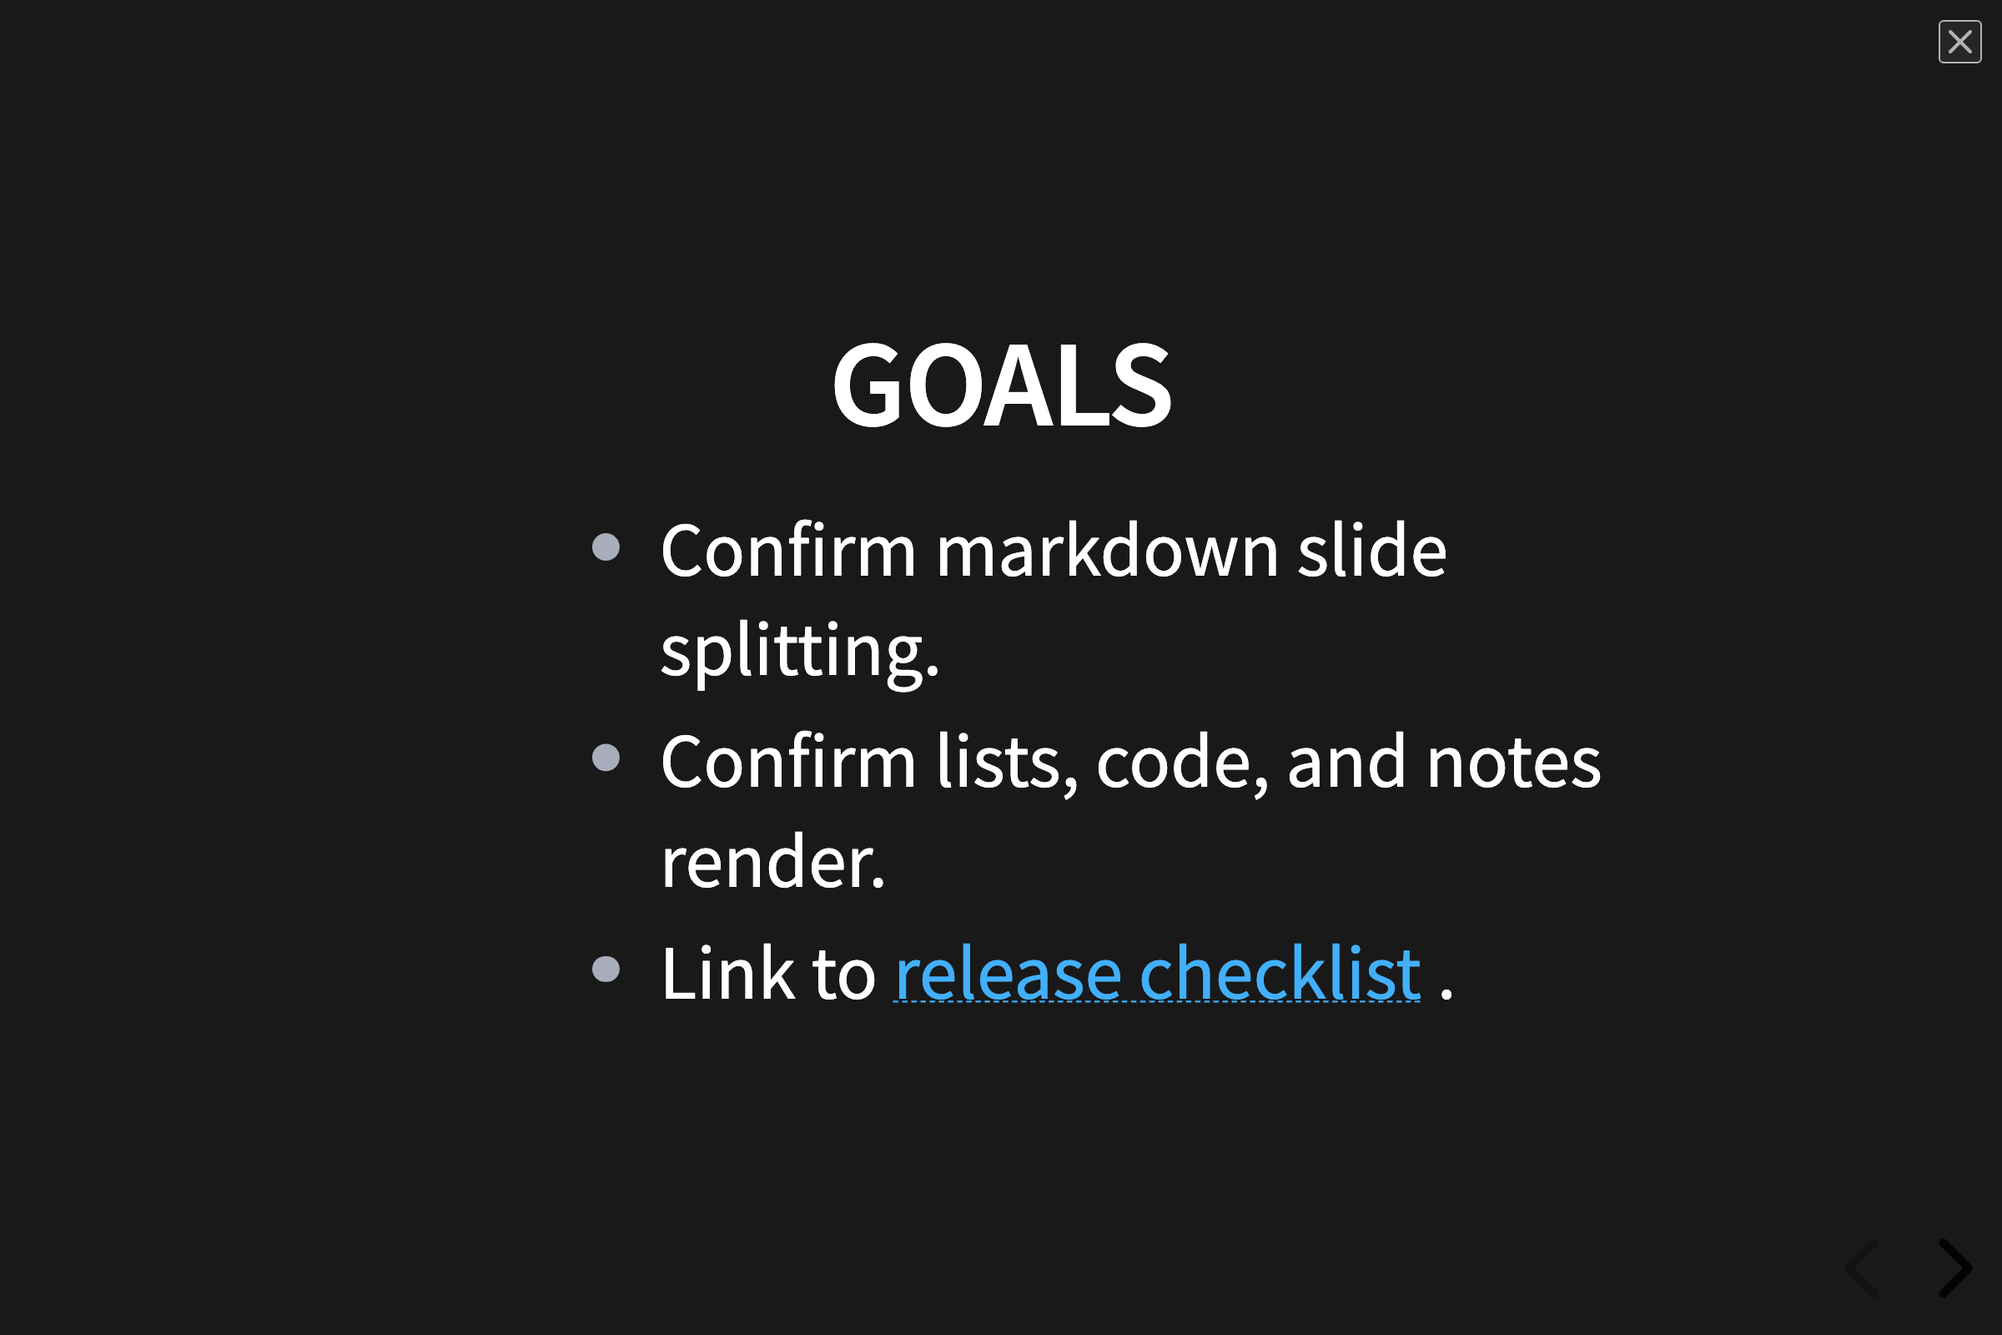
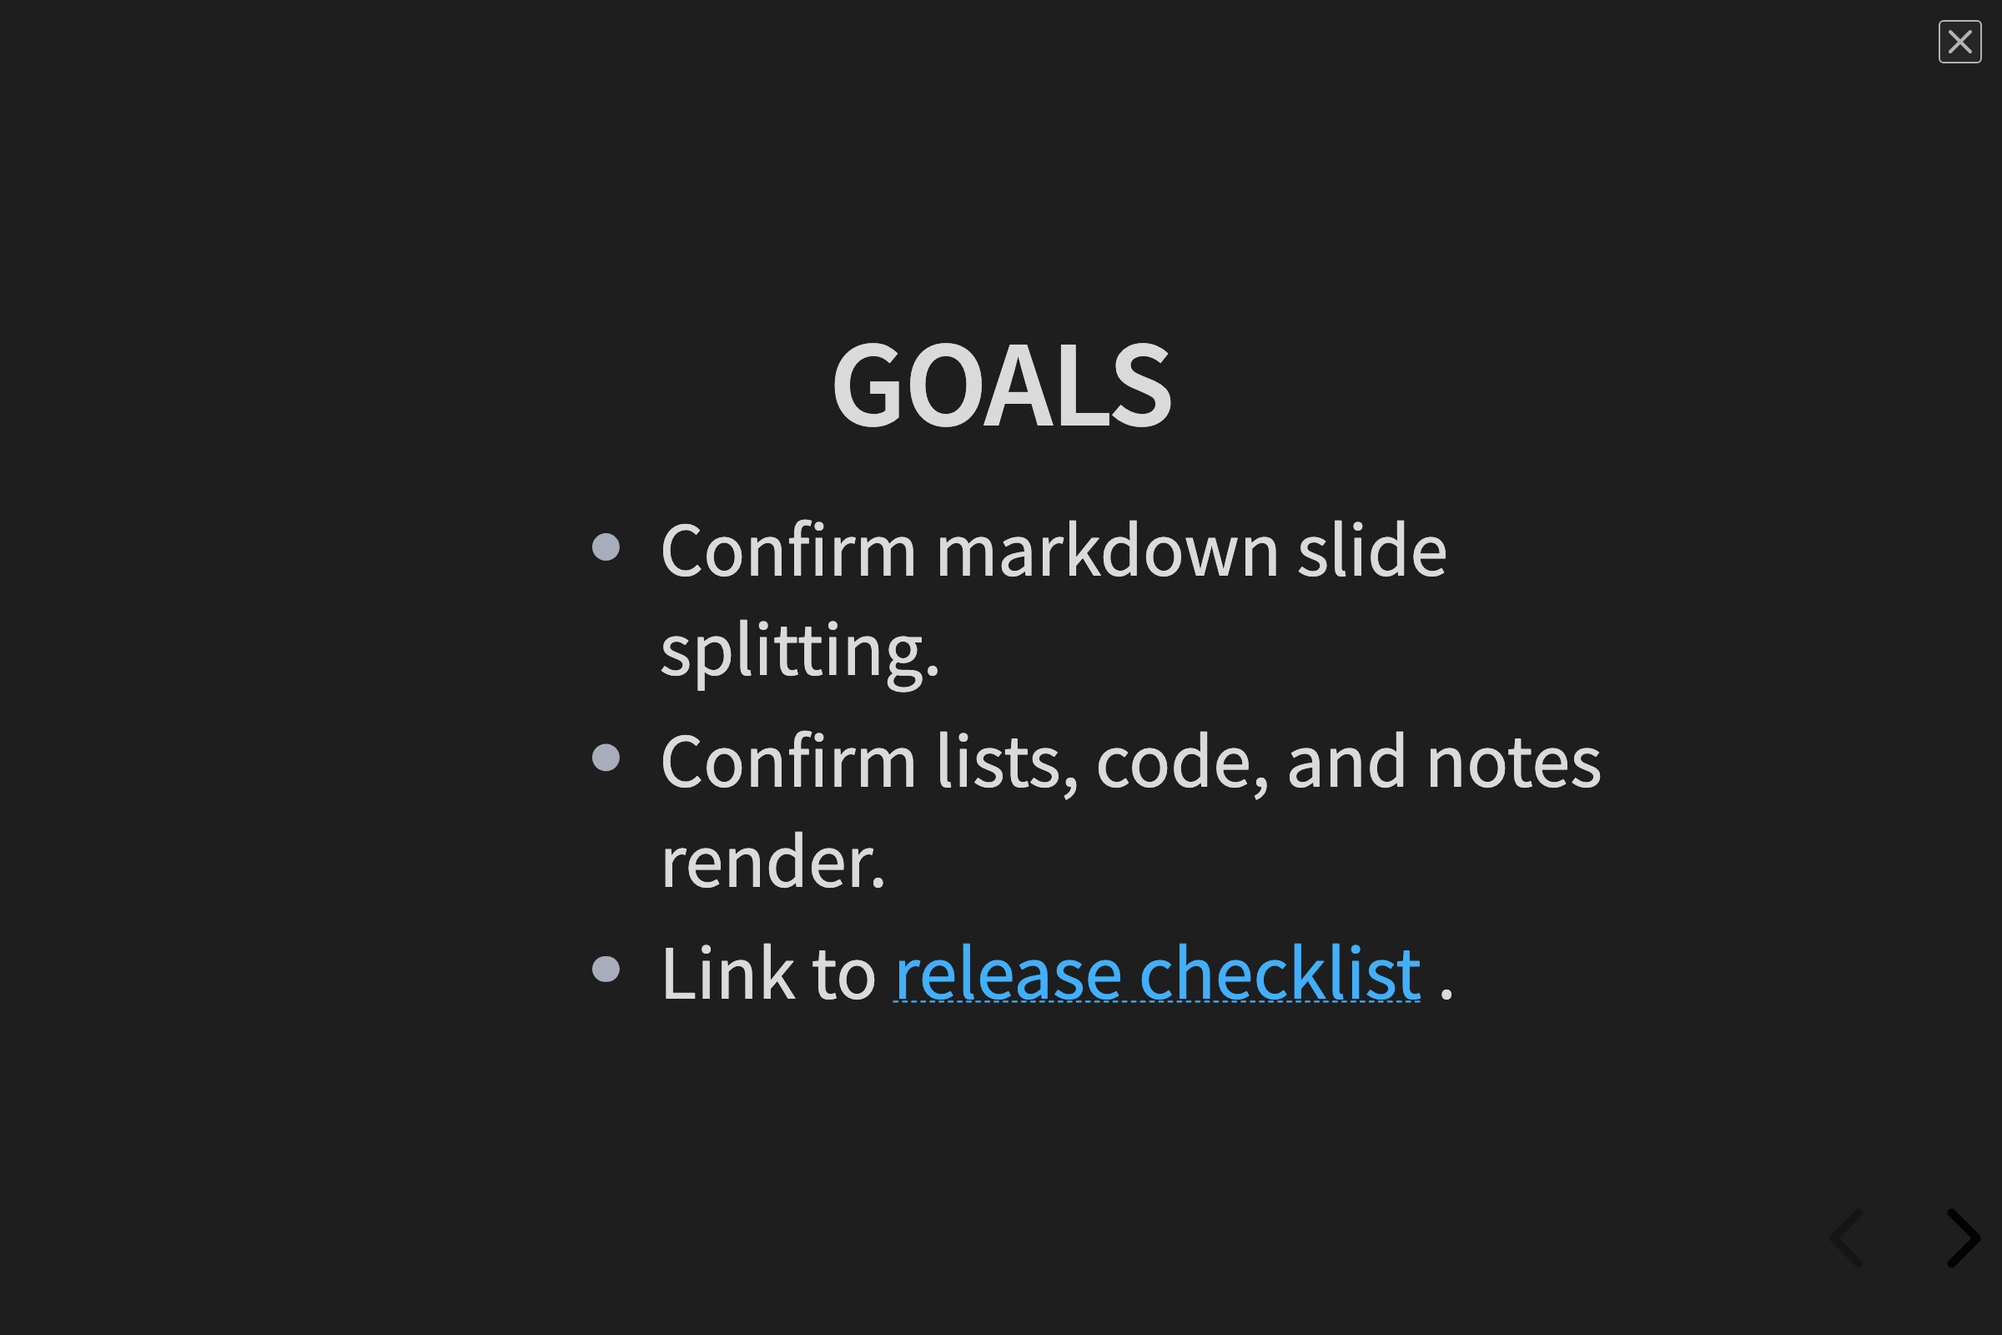
fix(slides): follow app theme and showcase vertical decks

diff --git a/stories/plugins/slides/slides-story.ts b/stories/plugins/slides/slides-story.ts
@@ -1,0 +1,87 @@
+import type { App } from "@lapis-notes/api";
+import { SlidesViewType } from "@lapis-notes/slides";
+import { expect, waitFor, within } from "storybook/test";
+import { SLIDES_DEMO_PATH } from "./create-slides-demo";
+
+export function slidesApp(canvasElement: HTMLElement): App {
+  const root = canvasElement.querySelector<HTMLElement & { __lapisApp?: App }>(
+    '[data-testid="slides-demo"]'
+  );
+  if (!root?.__lapisApp) throw new Error("Slides story has no explicit App");
+  return root.__lapisApp;
+}
+
+export async function openSlidesPresentation(canvasElement: HTMLElement) {
+  const canvas = within(canvasElement);
+  await waitFor(
+    () => {
+      expect(canvas.getByTestId("slides-demo-status")).toHaveTextContent(
+        "ready"
+      );
+      expect(
+        canvasElement.querySelector('[data-app-shell-ready="true"]')
+      ).not.toBeNull();
+    },
+    { timeout: 20_000 }
+  );
+
+  const app = slidesApp(canvasElement);
+  expect(app.plugins.isPluginEnabled("markdown")).toBe(true);
+  expect(app.plugins.isPluginEnabled("lapis-slides")).toBe(true);
+  expect(app.workspace.getActiveFile()?.path).toBe(SLIDES_DEMO_PATH);
+
+  await app.commands.executeCommand("lapis-slides:start-presentation");
+
+  const deck = await waitFor(
+    () => {
+      const candidate = canvasElement.querySelector<HTMLElement>(
+        '[data-testid="slides-deck"]'
+      );
+      expect(candidate).not.toBeNull();
+      expect(candidate?.dataset.revealReady).toBe("true");
+      expect(candidate).toBeVisible();
+      expect(app.workspace.getLeavesOfType(SlidesViewType)).toHaveLength(1);
+      return candidate!;
+    },
+    { timeout: 20_000 }
+  );
+
+  await new Promise((resolve) => setTimeout(resolve, 350));
+  expect(deck.dataset.revealReady).toBe("true");
+
+  return { app, canvas, deck, deckCanvas: within(deck) };
+}
+
+export async function advanceToHeading(
+  deckCanvas: ReturnType<typeof within>,
+  level: number,
+  name: string
+) {
+  const next = deckCanvas.getByRole("button", { name: /next slide/iu });
+  expect(next).toHaveClass("enabled");
+  next.click();
+  await waitFor(() => {
+    expect(deckCanvas.getByRole("heading", { level, name })).toBeVisible();
+  });
+}
+
+export async function expectSlidesTheme(
+  deck: HTMLElement,
+  colorMode: "light" | "dark"
+) {
+  const overlay = deck.closest<HTMLElement>('[data-testid="slides-overlay"]');
+  expect(overlay).not.toBeNull();
+
+  await waitFor(() => {
+    const styles = getComputedStyle(overlay!);
+    expect(document.documentElement.classList.contains("dark")).toBe(
+      colorMode === "dark"
+    );
+    expect(styles.getPropertyValue("--slides-background").trim()).toBe(
+      styles.getPropertyValue("--background-primary").trim()
+    );
+    expect(styles.getPropertyValue("--slides-foreground").trim()).toBe(
+      styles.getPropertyValue("--text-normal").trim()
+    );
+  });
+}

diff --git a/stories/plugins/slides/RegistryScreenshots.stories.ts b/stories/plugins/slides/RegistryScreenshots.stories.ts
@@ -1,9 +1,11 @@
-import type { App } from "@lapis-notes/api";
-import { SlidesViewType } from "@lapis-notes/slides";
 import type { Meta, StoryObj } from "@storybook/svelte-vite";
-import { expect, waitFor, within } from "storybook/test";
+import { expect, waitFor } from "storybook/test";
 import SlidesDemo from "./SlidesDemo.svelte";
-import { SLIDES_DEMO_PATH } from "./create-slides-demo";
+import {
+  advanceToHeading,
+  expectSlidesTheme,
+  openSlidesPresentation,
+} from "./slides-story";
 
 const meta = {
   title: "Plugins/Slides/Registry Screenshots",
@@ -15,54 +17,16 @@ const meta = {
 export default meta;
 type Story = StoryObj<typeof meta>;
 
-function slidesApp(canvasElement: HTMLElement): App {
-  const root = canvasElement.querySelector<HTMLElement & { __lapisApp?: App }>(
-    '[data-testid="slides-demo"]'
-  );
-  if (!root?.__lapisApp) throw new Error("Slides story has no explicit App");
-  return root.__lapisApp;
-}
-
 export const Presentation: Story = {
-  play: async ({ canvasElement }) => {
-    const canvas = within(canvasElement);
-    await waitFor(
-      () => {
-        expect(canvas.getByTestId("slides-demo-status")).toHaveTextContent(
-          "ready"
-        );
-        expect(
-          canvasElement.querySelector('[data-app-shell-ready="true"]')
-        ).not.toBeNull();
-      },
-      { timeout: 20_000 }
+  play: async ({ canvasElement, globals }) => {
+    const { canvas, deck, deckCanvas } = await openSlidesPresentation(
+      canvasElement
     );
-
-    const app = slidesApp(canvasElement);
-    expect(app.plugins.isPluginEnabled("markdown")).toBe(true);
-    expect(app.plugins.isPluginEnabled("lapis-slides")).toBe(true);
-    expect(app.workspace.getActiveFile()?.path).toBe(SLIDES_DEMO_PATH);
-
-    await app.commands.executeCommand("lapis-slides:start-presentation");
-
-    const deck = await waitFor(
-      () => {
-        const candidate = canvasElement.querySelector<HTMLElement>(
-          '[data-testid="slides-deck"]'
-        );
-        expect(candidate).not.toBeNull();
-        expect(candidate?.dataset.revealReady).toBe("true");
-        expect(candidate).toBeVisible();
-        expect(app.workspace.getLeavesOfType(SlidesViewType)).toHaveLength(1);
-        return candidate!;
-      },
-      { timeout: 20_000 }
+    await expectSlidesTheme(
+      deck,
+      globals.colorMode === "dark" ? "dark" : "light"
     );
-
-    const deckCanvas = within(deck);
-    const next = deckCanvas.getByRole("button", { name: /next slide/iu });
-    expect(next).toHaveClass("enabled");
-    next.click();
+    await advanceToHeading(deckCanvas, 2, "Goals");
 
     await waitFor(() => {
       const heading = deckCanvas.getByRole("heading", {

diff --git a/packages/slides/src/lib/views/slides/slides-view-component.test.ts b/packages/slides/src/lib/views/slides/slides-view-component.test.ts
@@ -86,7 +86,7 @@ describe("SlidesViewComponent", () => {
         setTimeout(() => {
           frames.delete(id);
           callback(performance.now());
-        }, 0),
+        }, 0)
       );
       return id;
     });
@@ -107,7 +107,7 @@ describe("SlidesViewComponent", () => {
 
   it("renders the recursive deck, refreshes live content, and retains Reveal indices", async () => {
     const editor = createEditor(
-      "# Start\n\n---\n\n## Goals\n\n- First\n\nNotes: Explain goals",
+      "# Start\n\n---\n\n## Goals\n\n- First\n\nNotes: Explain goals"
     );
     const onClose = vi.fn();
     const component = mount(SlidesViewComponent, {
@@ -122,20 +122,25 @@ describe("SlidesViewComponent", () => {
 
     await vi.waitFor(() => {
       expect(
-        target.querySelector('[data-testid="slides-deck"]')?.getAttribute(
-          "data-reveal-ready",
-        ),
+        target
+          .querySelector('[data-testid="slides-deck"]')
+          ?.getAttribute("data-reveal-ready")
       ).toBe("true");
     });
+    expect(
+      target
+        .querySelector('[data-testid="slides-overlay"]')
+        ?.classList.contains("theme-dark")
+    ).toBe(false);
     expect(target.textContent).toContain("## Goals");
     expect(target.querySelector("aside.notes")?.textContent).toContain(
-      "Explain goals",
+      "Explain goals"
     );
 
     const reveal = revealHarness.instances[0];
     reveal.slide.mockClear();
     editor.emit(
-      "# Start\n\n---\n\n## Updated goals\n\n- First\n- Second\n\nNotes: Explain goals",
+      "# Start\n\n---\n\n## Updated goals\n\n- First\n- Second\n\nNotes: Explain goals"
     );
 
     await vi.waitFor(() => {
@@ -144,7 +149,7 @@ describe("SlidesViewComponent", () => {
     });
 
     document.dispatchEvent(
-      new KeyboardEvent("keydown", { key: "Escape", bubbles: true }),
+      new KeyboardEvent("keydown", { key: "Escape", bubbles: true })
     );
     expect(onClose).toHaveBeenCalledOnce();
 

diff --git a/stories/plugins/slides/Decks.stories.ts b/stories/plugins/slides/Decks.stories.ts
@@ -1,0 +1,50 @@
+import type { Meta, StoryObj } from "@storybook/svelte-vite";
+import { expect, waitFor } from "storybook/test";
+import SlidesDemo from "./SlidesDemo.svelte";
+import {
+  advanceToHeading,
+  expectSlidesTheme,
+  openSlidesPresentation,
+} from "./slides-story";
+
+const meta = {
+  title: "Plugins/Slides/Decks",
+  component: SlidesDemo,
+  tags: ["visual-pending", "test"],
+  parameters: { layout: "fullscreen", visualDelta: { delay: 150 } },
+} satisfies Meta<typeof SlidesDemo>;
+
+export default meta;
+type Story = StoryObj<typeof meta>;
+
+export const VerticalDeck: Story = {
+  play: async ({ canvasElement, globals }) => {
+    const { deck, deckCanvas } = await openSlidesPresentation(canvasElement);
+    await expectSlidesTheme(
+      deck,
+      globals.colorMode === "dark" ? "dark" : "light"
+    );
+
+    await advanceToHeading(deckCanvas, 2, "Goals");
+    await advanceToHeading(deckCanvas, 2, "Vertical Track");
+    await advanceToHeading(deckCanvas, 3, "Parser Fidelity");
+
+    expect(deck).toHaveClass("has-vertical-slides");
+    const down = deckCanvas.getByRole("button", { name: "below slide" });
+    expect(down).toHaveClass("enabled");
+    down.click();
+
+    await waitFor(() => {
+      const heading = deckCanvas.getByRole("heading", {
+        level: 3,
+        name: "Live Updates",
+      });
+      expect(heading).toBeVisible();
+      expect(heading.closest("section")).toHaveClass("present");
+      expect(heading.closest("section")?.parentElement).toHaveClass(
+        "stack",
+        "present"
+      );
+    });
+  },
+};

diff --git a/packages/slides/src/lib/views/slides/slides.css b/packages/slides/src/lib/views/slides/slides.css
@@ -5,14 +5,17 @@
   position: fixed;
   inset: 0;
   z-index: calc(var(--layer-modal, 50) + 10);
-  --slides-background: #191919;
-  --slides-foreground: #fff;
-  --slides-link-color: #42affa;
-  --slides-link-color-dark: #068de9;
-  --slides-link-color-hover: #8dcffc;
-  --slides-selection-background: #bee4fd;
-  --slides-selection-color: #fff;
-  --slides-blockquote-background: rgba(255, 255, 255, 0.05);
+  --slides-background: var(--background-primary, var(--background, #191919));
+  --slides-foreground: var(--text-normal, var(--foreground, #fff));
+  --slides-link-color: #068de9;
+  --slides-link-color-dark: #057ac7;
+  --slides-link-color-hover: #0468aa;
+  --slides-selection-background: var(--text-selection, #bee4fd);
+  --slides-selection-color: var(--text-normal, var(--foreground, #fff));
+  --slides-blockquote-background: var(
+    --background-secondary,
+    rgba(255, 255, 255, 0.05)
+  );
   background: var(--slides-background);
   --r-background-color: var(--slides-background);
   --r-main-font: Source Sans Pro, Helvetica, sans-serif;
@@ -38,6 +41,13 @@
   --r-link-color-hover: var(--slides-link-color-hover);
   --r-selection-background-color: var(--slides-selection-background);
   --r-selection-color: var(--slides-selection-color);
+}
+
+.dark .slides-overlay,
+.theme-dark .slides-overlay {
+  --slides-link-color: #42affa;
+  --slides-link-color-dark: #068de9;
+  --slides-link-color-hover: #8dcffc;
 }
 
 .slides-view {

diff --git a/packages/slides/src/lib/views/slides/slides-view.svelte b/packages/slides/src/lib/views/slides/slides-view.svelte
@@ -242,7 +242,7 @@
   });
 </script>
 
-<div class="slides-overlay theme-dark" data-testid="slides-overlay">
+<div class="slides-overlay" data-testid="slides-overlay">
   <button
     type="button"
     class="slides-close-button"

diff --git a/spec/src/plugins/slides/index.md b/spec/src/plugins/slides/index.md
@@ -18,7 +18,7 @@ the explicit source leaf when the presentation closes.
 | ID            | Requirement |
 | ------------- | ----------- |
 | LN-SLIDES-001 | Slides MUST live at `packages/slides` as `@lapis-notes/slides@0.1.0`, retain runtime id `lapis-slides`, view type `slides`, command id `start-presentation`, and migration provenance revision `8ec68e18`. The legacy source and its separate release history MUST remain unchanged. |
-| LN-SLIDES-002 | The migrated presentation MUST preserve the legacy overlay, view and section DOM, recursive horizontal and vertical tree, semantic class names, close-button SVG, Source Sans Pro imports, Reveal variables, and authored CSS declarations. Adaptation MAY add non-visual accessibility or test attributes to that markup and a Slides-scoped Markdown token bridge; it MUST NOT restyle the application outside the presentation. |
+| LN-SLIDES-002 | The migrated presentation MUST preserve the legacy overlay, view and section DOM, recursive horizontal and vertical tree, semantic class names, close-button SVG, Source Sans Pro imports, Reveal variables, and authored CSS declarations. Adaptation MAY add non-visual accessibility or test attributes to that markup plus Slides-scoped Markdown and application-theme token bridges; it MUST NOT restyle the application outside the presentation. |
 | LN-SLIDES-003 | Blank-line `---` separators MUST start horizontal slides and blank-line `----` separators MUST create vertical children. Separators without the surrounding blank lines MUST remain Markdown content. Empty input MUST remain a valid one-slide deck. |
 | LN-SLIDES-004 | A leading YAML front matter block MUST configure Reveal through the fail-safe YAML schema. Missing, scalar, array, or malformed configuration MUST fall back without throwing; malformed YAML MUST leave the original Markdown available to render. |
 | LN-SLIDES-005 | Slides MUST preserve `notes:` and case-insensitive `note:` or `notes:` speaker-note labels, callout-style `>[!note]:` and `>[!notes]:` notes, `.element` attributes on the preceding element, and `.slide:` attributes on the owning section. Slide and note bodies MUST render through `@lapis-notes/markdown/embed` with syntax highlighting disabled, inherit Reveal's main and heading typography, and keep the embedded Markdown surface transparent. |
@@ -32,6 +32,8 @@ the explicit source leaf when the presentation closes.
 | LN-SLIDES-013 | Package-owned registry metadata MUST use categories `presentation` and `markdown`, semantic icon `presentation`, legacy link-blue accent `#42AFFA`, end-user Overview and Changelog content, one fixed banner, and one `presentation` gallery card with the governed headline, description, and alternative text. The active registry history MUST begin at `0.1.0`; legacy `2026.6.6` assets MUST NOT be imported. |
 | LN-SLIDES-014 | `Plugins/Slides/Registry Screenshots` MUST provide one explicit-App `Presentation` story for both banner and gallery capture with `registry-media` and `visual-pending` governance. It MUST register public Markdown and Slides exports, seed and open `Release Walkthrough.md`, execute `lapis-slides:start-presentation`, navigate deterministically to Goals, wait for Reveal readiness, and assert the heading, list, controls, and close action before capture. |
 | LN-SLIDES-015 | Banner and `presentation` registry media MUST contain deterministic 1200x800 split preview plus 2400x1600 split, light, and dark WebPs. Package tests MUST cover parsing, both notes syntaxes, attributes, invalid YAML, command/menu guards, tab/source behavior, close/Escape, live refresh, index retention, and teardown. Visual Delta baselines MUST remain pending until separate approval. |
+| LN-SLIDES-016 | The presentation overlay MUST inherit the active application light or dark semantic background, foreground, selection, and secondary-surface tokens without forcing a theme class. Theme changes MUST flow through CSS custom properties without recreating the deck. |
+| LN-SLIDES-017 | Storybook MUST include an interaction-backed vertical-deck example that opens Slides through the public command, enters a vertical stack, navigates down, and asserts the active nested slide. The canonical fixture MUST exercise both horizontal and vertical separators. |
 
 ## Runtime flow
 

diff --git a/spec/src/verification.md b/spec/src/verification.md
@@ -501,6 +501,8 @@ and records repository-level extraction and release gates.
 | LN-SLIDES-013 | plugins/slides/index | Implemented | registry metadata checks cover presentation and markdown categories, semantic identity, source-owned content, one fixed banner, one gallery card, and the fresh 0.1.0 history. |
 | LN-SLIDES-014 | plugins/slides/index | Implemented | the governed explicit-App Presentation story serves banner and gallery capture, invokes the public command, reaches Goals deterministically, and asserts heading, list, controls, close, interaction, and axe behavior. |
 | LN-SLIDES-015 | plugins/slides/index | Implemented | media checks verify deterministic banner and gallery split preview/full plus light/dark WebPs; package tests and signed browser acceptance cover parser, lifecycle, refresh, index retention, close, unload, restart, disable, and re-enable. |
+| LN-SLIDES-016 | plugins/slides/index | Implemented | Slides CSS bridges Reveal surfaces to host semantic tokens, the component regression rejects a forced dark class, and the governed registry story asserts computed light and dark presentation colors. |
+| LN-SLIDES-017 | plugins/slides/index | Implemented | the canonical walkthrough contains a vertical stack and the Vertical Deck story drives Reveal into its nested child, navigates down, and asserts the active stack and slide. |
 | LN-SRC-001 | plugins/source-editor/index | Implemented | Source Editor manifest, exports, unit tests, package build, publint, npm-pack, App-ownership audit, and signed archive verification. |
 | LN-SRC-002 | plugins/source-editor/index | Implemented | Source Editor manifest, exports, unit tests, package build, publint, npm-pack, App-ownership audit, and signed archive verification. |
 | LN-SRC-003 | plugins/source-editor/index | Implemented | Source Editor manifest, exports, unit tests, package build, publint, npm-pack, App-ownership audit, and signed archive verification. |

diff --git a/packages/slides/test/fixtures/release-walkthrough.md b/packages/slides/test/fixtures/release-walkthrough.md
@@ -20,6 +20,25 @@ Note: Speaker note for the goals slide.
 
 ---
 
+## Vertical Track
+
+Move down through the implementation details.
+
+----
+
+### Parser Fidelity
+
+- Blank-line separators build the deck tree.
+- Four dashes create vertical child slides.
+
+----
+
+### Live Updates
+
+Editor changes refresh the deck without losing its position.
+
+---
+
 ## Sample Code
 
 ```ts
